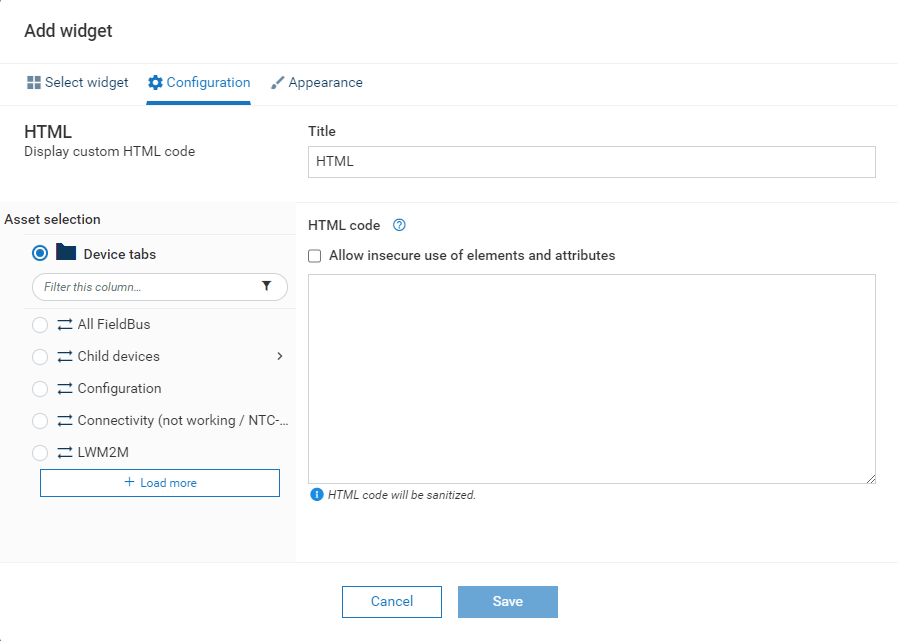
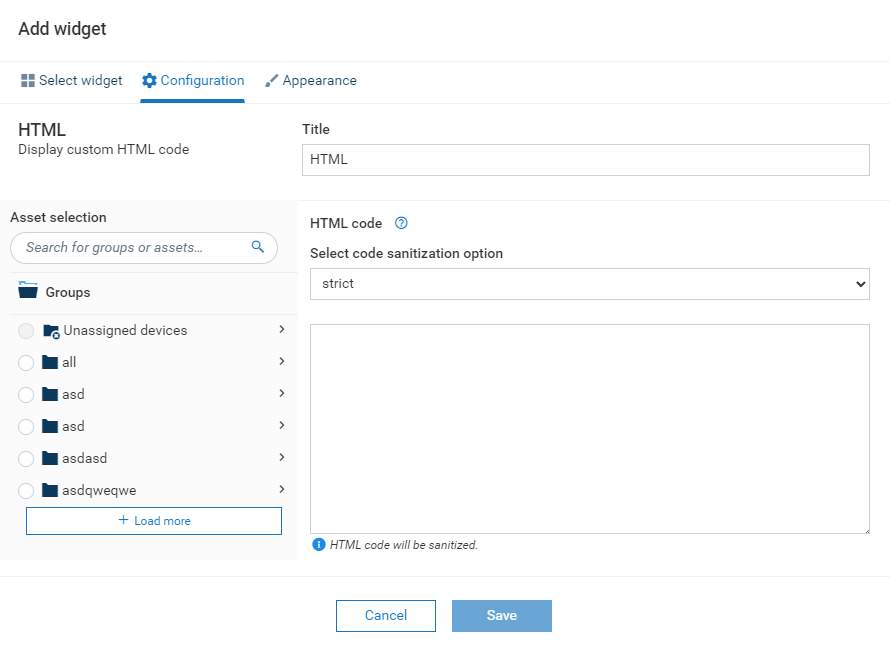
MTM-47207 Added widget sanitization info.

diff --git a/content/users-guide/cockpit-bundle/widgets-collection.md b/content/users-guide/cockpit-bundle/widgets-collection.md
@@ -389,6 +389,11 @@ The "HTML" widget shows user-defined content. The content can be formatted using
 "Device" refers to the target device, as selected in the widget configuration parameter.<br>
 "fragment.property" refers to the properties of the respective device. To see the available property names, you can use the "Asset property" or "Asset table" widget and click **+Add property** in the widget configuration. This will show a table of supported properties. You can copy and paste the values from the column **Property**. Generated properties of these widgets are not available in the HTML widgets.
 
+The following sanitization options can be selected:
+ - strict - Does not allow any JS or angularjsj directives.
+ - lax (default) - Allows partly JS (events) and all angularjs directives.
+ - none - Allows everything.
+
 ![HTML widget](/images/users-guide/cockpit/cockpit-widget-html.png)
 
 If you want to use a link in the **HTML code** field, for example a link to a dashboard, you must use the following format:
@@ -533,9 +538,10 @@ The "SCADA" widget provides a graphic representation of the status of a device.
 
 For details on the "SCADA" widget, refer to [Cloud Fieldbus > Monitoring status using the SCADA widget](/protocol-integration/cloud-fieldbus/#scada) in the *Protocol integration guide*.
 
-{{< c8y-admon-info >}}
-All SVG files are sanitized in order to remove malicious code.
-{{< /c8y-admon-info >}}
+The following sanitization options can be selected:
+ - strict - Does not allow any JS or angularjsj directives.
+ - lax (default) - Allows partly JS (events) and all angularjs directives.
+ - none - Allows everything.
 
 ![SCADA widget](/images/users-guide/cockpit/cockpit-widget-scada.png)
 
